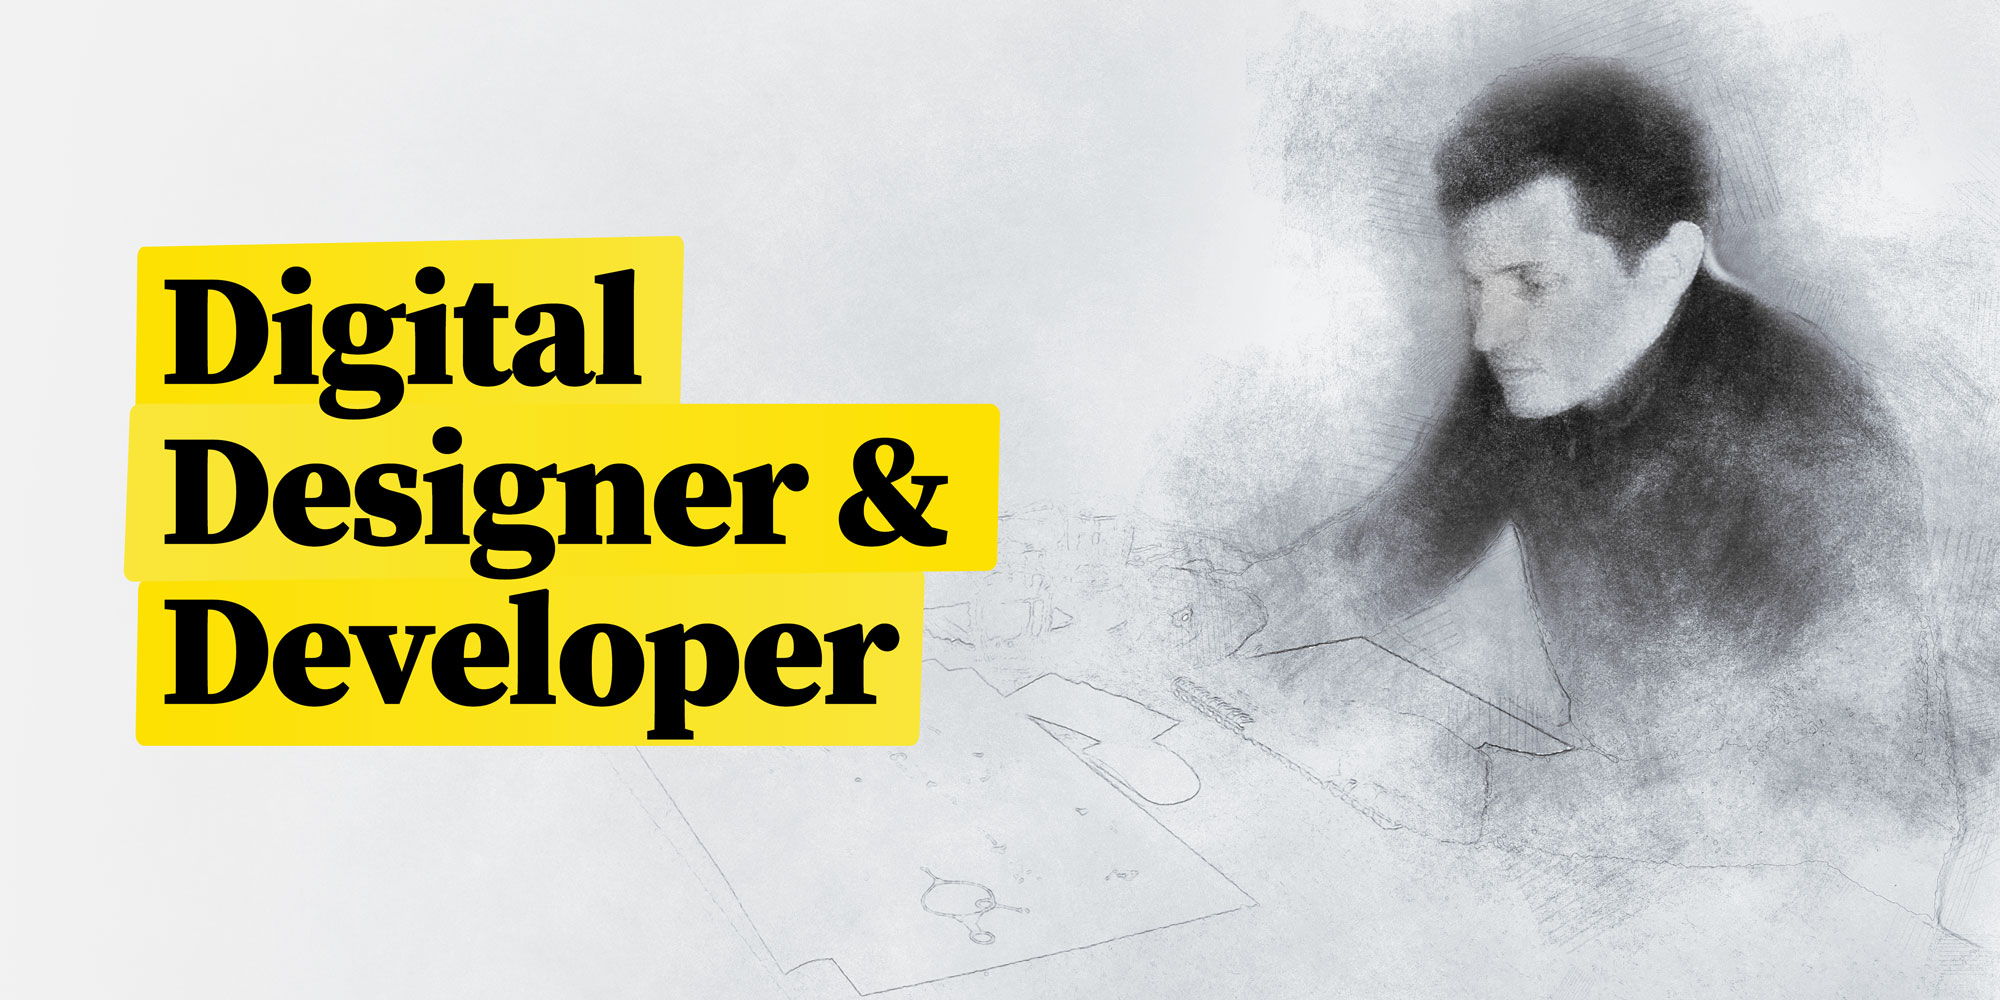
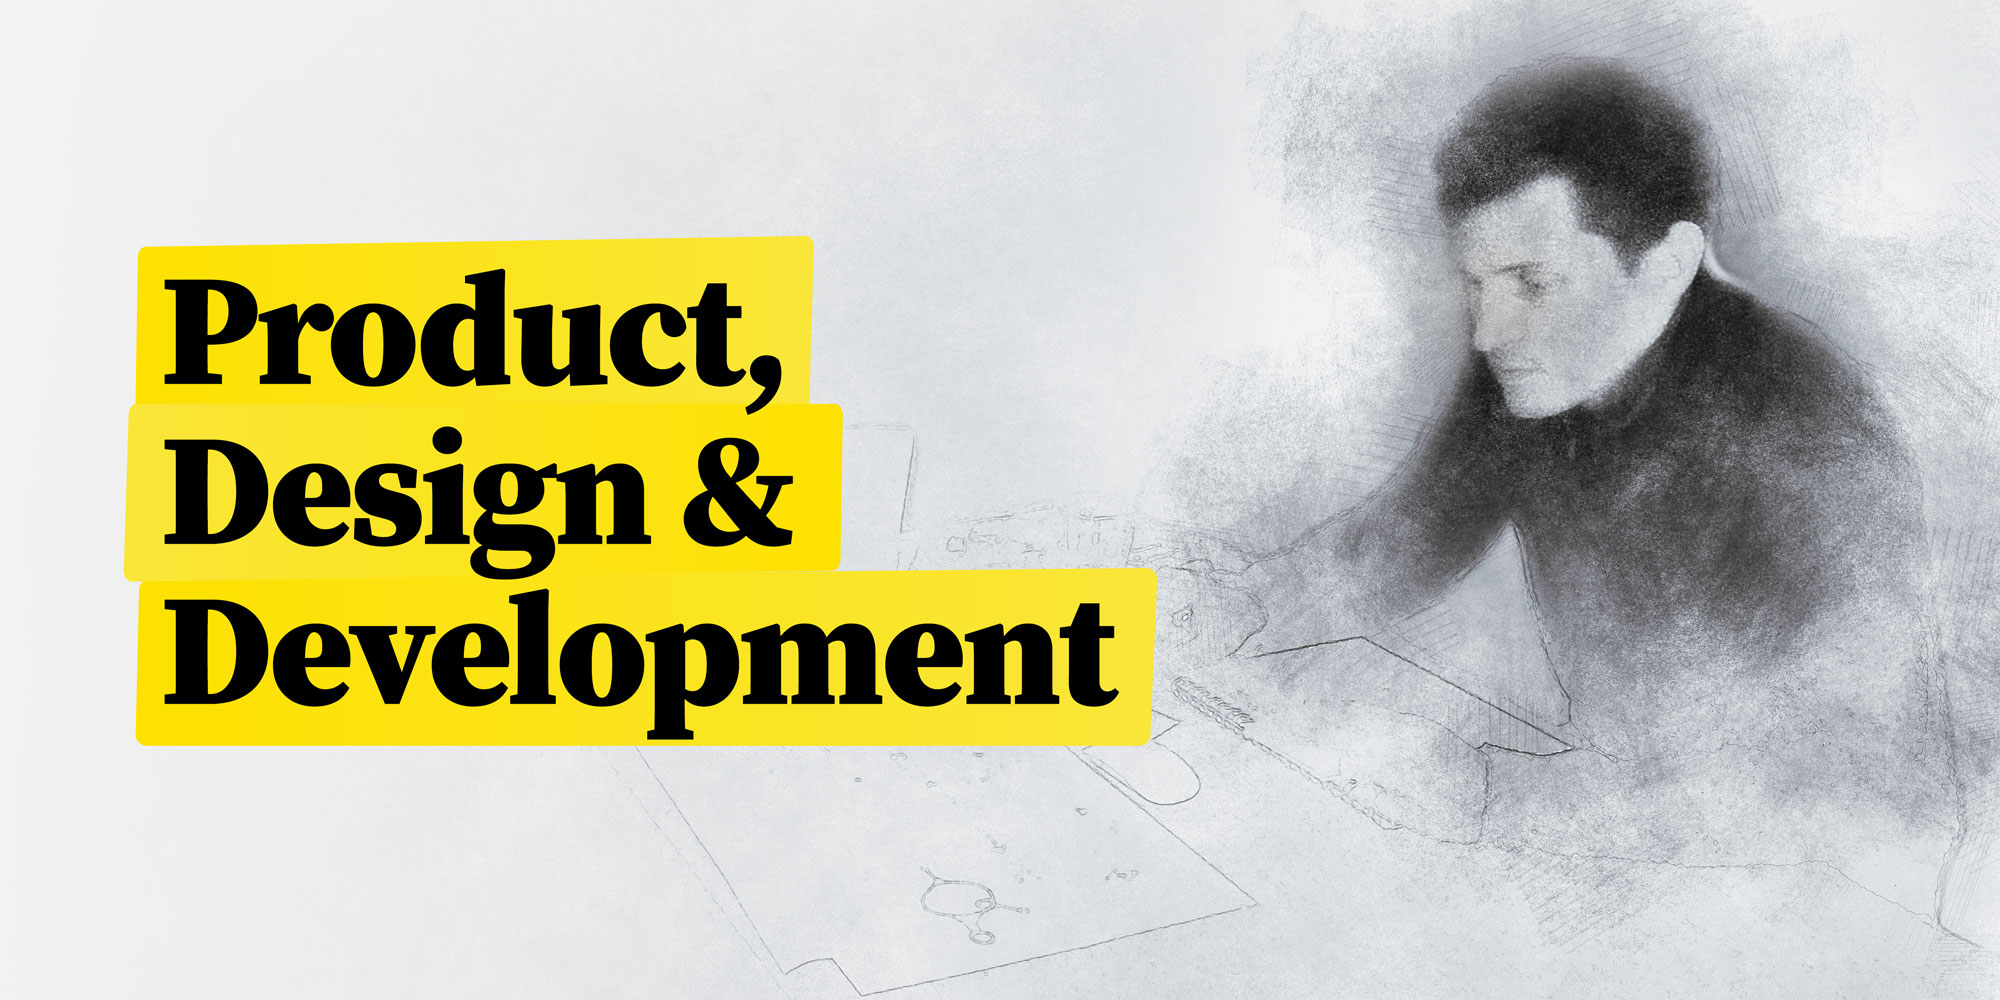
new tagline

Changed region(s): [[0.093, 0.217, 0.589, 0.744]]

diff --git a/index.html b/index.html
@@ -1,13 +1,13 @@
 ---
 layout: default
-title: "Damir Kotorić — Digital Designer & Developer"
-description: "Global citizen living in Australia, innovating for clients worldwide — from startups to the Fortune 500."
+title: "Damir Kotorić — Product, Design & Development"
+description: "Product, Design & Development. Over 10 years experience innovating for clients worldwide — startups to the Fortune 500."
 activeNav: 1
 ---
 
 <div class="hero -sidebyside">
   <div class="heroContent">
-    <h1>Digital Designer & <span>Developer</span></h1>
+    <h1>Product, Design & <span>Development</span></h1>
     <p><span class="highlight">Damir Kotorić</span> is a global citizen living in Australia, innovating for clients worldwide — from startups to the Fortune 500.</p>
   </div>
   <div class="heroImage">
